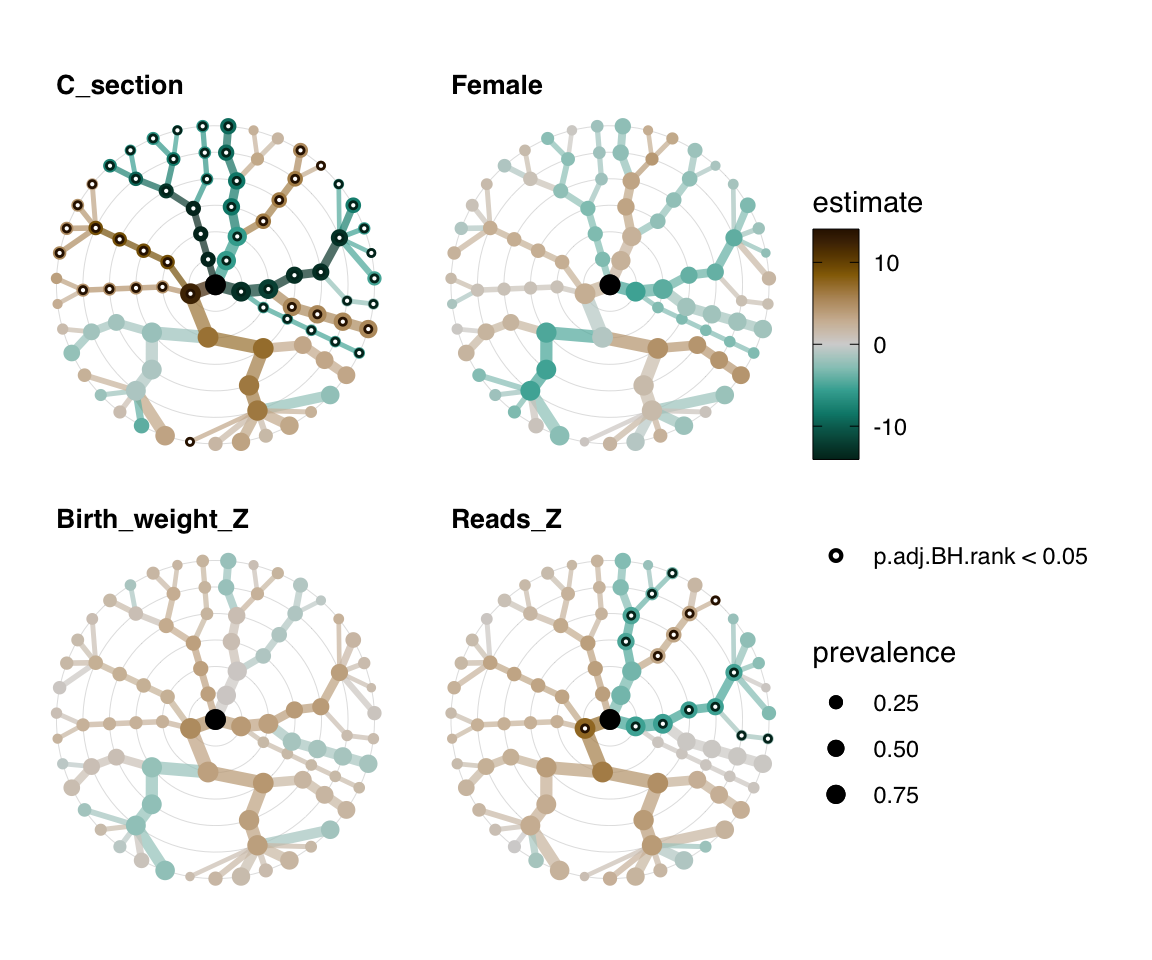
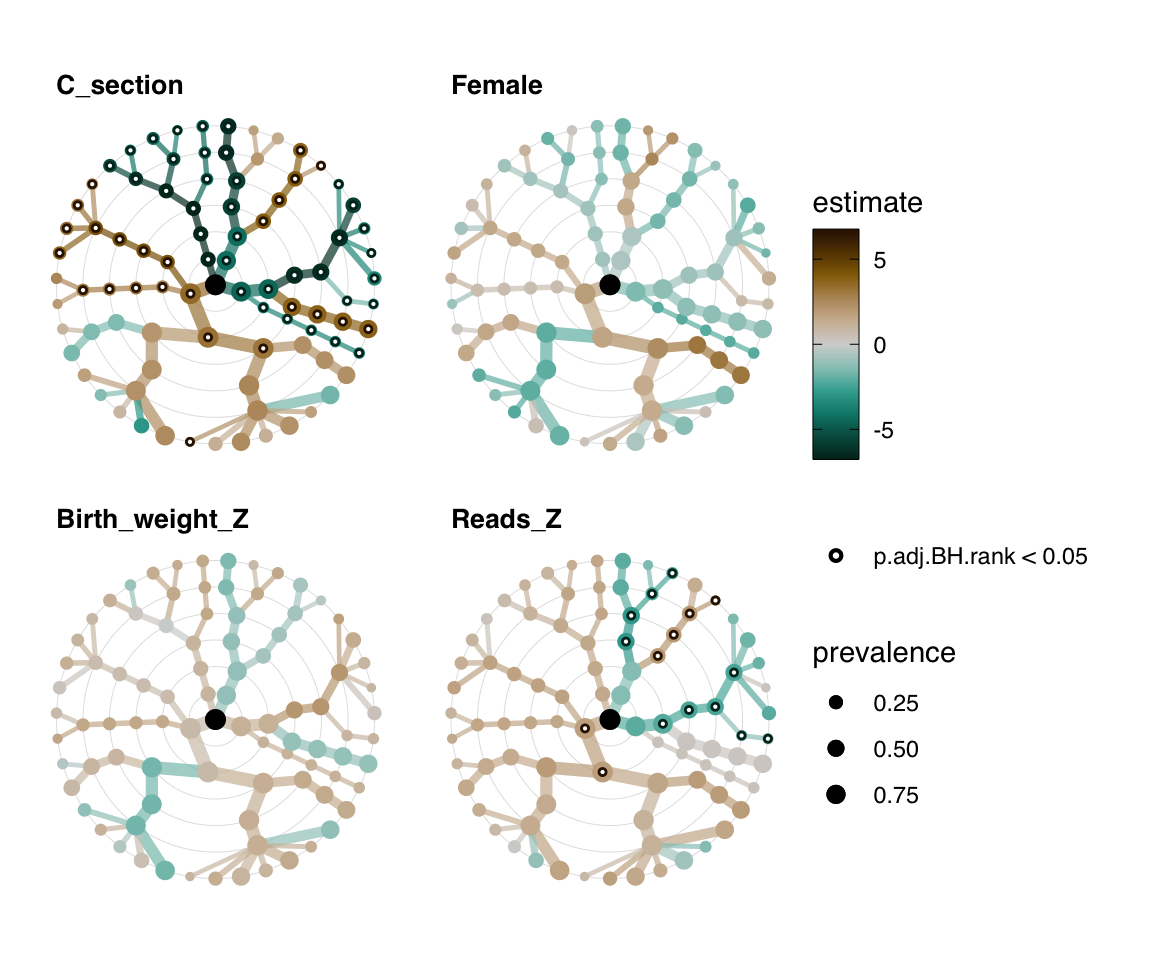
fix tss log2 regression modelling examples

diff --git a/exercises/exercises_2.html b/exercises/exercises_2.html
@@ -655,10 +655,10 @@ For more details on PERMANOVA
 <span id="cb22-5"><a href="#cb22-5" aria-hidden="true" tabindex="-1"></a>  <span class="fu">dist_permanova</span>(<span class="at">variables =</span> <span class="st">"birth_mode"</span>, <span class="at">n_perms =</span> <span class="dv">99</span>, <span class="at">seed =</span> <span class="dv">123</span>) <span class="sc">%&gt;%</span></span>
 <span id="cb22-6"><a href="#cb22-6" aria-hidden="true" tabindex="-1"></a>  <span class="fu">perm_get</span>()</span></code><button title="Copy to Clipboard" class="code-copy-button"><i class="bi"></i></button></pre></div>
 <div class="cell-output cell-output-stderr">
-<pre><code>2023-05-24 11:55:05.299356 - Starting PERMANOVA with 99 perms with 1 processes</code></pre>
+<pre><code>2023-07-30 20:51:25.860412 - Starting PERMANOVA with 99 perms with 1 processes</code></pre>
 </div>
 <div class="cell-output cell-output-stderr">
-<pre><code>2023-05-24 11:55:05.419289 - Finished PERMANOVA</code></pre>
+<pre><code>2023-07-30 20:51:25.952266 - Finished PERMANOVA</code></pre>
 </div>
 <div class="cell-output cell-output-stdout">
 <pre><code>Permutation test for adonis under reduced model
@@ -707,10 +707,10 @@ Signif. codes:  0 '***' 0.001 '**' 0.01 '*' 0.05 '.' 0.1 ' ' 1</code></pre>
 <pre><code>Dropping samples with missings: 15</code></pre>
 </div>
 <div class="cell-output cell-output-stderr">
-<pre><code>2023-05-24 11:55:05.523004 - Starting PERMANOVA with 99 perms with 1 processes</code></pre>
+<pre><code>2023-07-30 20:51:26.021612 - Starting PERMANOVA with 99 perms with 1 processes</code></pre>
 </div>
 <div class="cell-output cell-output-stderr">
-<pre><code>2023-05-24 11:55:06.424083 - Finished PERMANOVA</code></pre>
+<pre><code>2023-07-30 20:51:26.711626 - Finished PERMANOVA</code></pre>
 </div>
 <div class="cell-output cell-output-stdout">
 <pre><code>Permutation test for adonis under reduced model
@@ -1214,9 +1214,9 @@ Caused by warning:
 <div class="cell">
 <div class="sourceCode cell-code" id="cb53"><pre class="sourceCode r code-with-copy"><code class="sourceCode r"><span id="cb53-1"><a href="#cb53-1" aria-hidden="true" tabindex="-1"></a>bacteroidesRegression1 <span class="ot">&lt;-</span> infants <span class="sc">%&gt;%</span></span>
 <span id="cb53-2"><a href="#cb53-2" aria-hidden="true" tabindex="-1"></a>  <span class="fu">tax_transform</span>(<span class="st">"compositional"</span>, <span class="at">rank =</span> <span class="st">"genus"</span>) <span class="sc">%&gt;%</span></span>
-<span id="cb53-3"><a href="#cb53-3" aria-hidden="true" tabindex="-1"></a>  <span class="fu">tax_transform</span>(<span class="st">"log2"</span>, <span class="at">zero_replace =</span> <span class="st">"halfmin"</span>, <span class="at">chain =</span> <span class="cn">TRUE</span>) <span class="sc">%&gt;%</span></span>
-<span id="cb53-4"><a href="#cb53-4" aria-hidden="true" tabindex="-1"></a>  <span class="fu">tax_model</span>(</span>
-<span id="cb53-5"><a href="#cb53-5" aria-hidden="true" tabindex="-1"></a>    <span class="at">type =</span> <span class="st">"lm"</span>, <span class="at">rank =</span> <span class="st">"genus"</span>,</span>
+<span id="cb53-3"><a href="#cb53-3" aria-hidden="true" tabindex="-1"></a>  <span class="fu">tax_model</span>(</span>
+<span id="cb53-4"><a href="#cb53-4" aria-hidden="true" tabindex="-1"></a>    <span class="at">type =</span> <span class="st">"lm"</span>, <span class="at">rank =</span> <span class="st">"genus"</span>,</span>
+<span id="cb53-5"><a href="#cb53-5" aria-hidden="true" tabindex="-1"></a>    <span class="at">trans =</span> <span class="st">"log2"</span>, <span class="at">trans_args =</span> <span class="fu">list</span>(<span class="at">zero_replace =</span> <span class="st">"halfmin"</span>),</span>
 <span id="cb53-6"><a href="#cb53-6" aria-hidden="true" tabindex="-1"></a>    <span class="at">taxa =</span> <span class="st">"Bacteroides"</span>, <span class="at">variables =</span> <span class="st">"birth_mode"</span>,</span>
 <span id="cb53-7"><a href="#cb53-7" aria-hidden="true" tabindex="-1"></a>    <span class="at">return_psx =</span> <span class="cn">FALSE</span></span>
 <span id="cb53-8"><a href="#cb53-8" aria-hidden="true" tabindex="-1"></a>  ) <span class="sc">%&gt;%</span></span>
@@ -1282,9 +1282,9 @@ F-statistic: 109.6 on 1 and 304 DF,  p-value: &lt; 2.2e-16</code></pre>
 <div class="cell">
 <div class="sourceCode cell-code" id="cb60"><pre class="sourceCode r code-with-copy"><code class="sourceCode r"><span id="cb60-1"><a href="#cb60-1" aria-hidden="true" tabindex="-1"></a>bacteroidesRegression2 <span class="ot">&lt;-</span> infants <span class="sc">%&gt;%</span></span>
 <span id="cb60-2"><a href="#cb60-2" aria-hidden="true" tabindex="-1"></a>  <span class="fu">tax_transform</span>(<span class="st">"compositional"</span>, <span class="at">rank =</span> <span class="st">"genus"</span>) <span class="sc">%&gt;%</span></span>
-<span id="cb60-3"><a href="#cb60-3" aria-hidden="true" tabindex="-1"></a>  <span class="fu">tax_transform</span>(<span class="st">"log2"</span>, <span class="at">zero_replace =</span> <span class="st">"halfmin"</span>, <span class="at">chain =</span> <span class="cn">TRUE</span>) <span class="sc">%&gt;%</span></span>
-<span id="cb60-4"><a href="#cb60-4" aria-hidden="true" tabindex="-1"></a>  <span class="fu">tax_model</span>(</span>
-<span id="cb60-5"><a href="#cb60-5" aria-hidden="true" tabindex="-1"></a>    <span class="at">type =</span> <span class="st">"lm"</span>, <span class="at">rank =</span> <span class="st">"genus"</span>, <span class="at">taxa =</span> <span class="st">"Bacteroides"</span>,</span>
+<span id="cb60-3"><a href="#cb60-3" aria-hidden="true" tabindex="-1"></a>  <span class="fu">tax_model</span>(</span>
+<span id="cb60-4"><a href="#cb60-4" aria-hidden="true" tabindex="-1"></a>    <span class="at">type =</span> <span class="st">"lm"</span>, <span class="at">rank =</span> <span class="st">"genus"</span>, <span class="at">taxa =</span> <span class="st">"Bacteroides"</span>,</span>
+<span id="cb60-5"><a href="#cb60-5" aria-hidden="true" tabindex="-1"></a>    <span class="at">trans =</span> <span class="st">"log2"</span>, <span class="at">trans_args =</span> <span class="fu">list</span>(<span class="at">zero_replace =</span> <span class="st">"halfmin"</span>),</span>
 <span id="cb60-6"><a href="#cb60-6" aria-hidden="true" tabindex="-1"></a>    <span class="at">variables =</span> <span class="fu">c</span>(<span class="st">"C_section"</span>, <span class="st">"Female"</span>, <span class="st">"Birth_weight_Z"</span>, <span class="st">"Reads_Z"</span>),</span>
 <span id="cb60-7"><a href="#cb60-7" aria-hidden="true" tabindex="-1"></a>    <span class="at">return_psx =</span> <span class="cn">FALSE</span></span>
 <span id="cb60-8"><a href="#cb60-8" aria-hidden="true" tabindex="-1"></a>  ) <span class="sc">%&gt;%</span></span>
@@ -1386,9 +1386,9 @@ F-statistic: 28.55 on 4 and 286 DF,  p-value: &lt; 2.2e-16</code></pre>
 <span id="cb68-4"><a href="#cb68-4" aria-hidden="true" tabindex="-1"></a>  <span class="fu">tax_prepend_ranks</span>() <span class="sc">%&gt;%</span></span>
 <span id="cb68-5"><a href="#cb68-5" aria-hidden="true" tabindex="-1"></a>  <span class="fu">tax_transform</span>(<span class="st">"compositional"</span>, <span class="at">rank =</span> <span class="st">"species"</span>, <span class="at">keep_counts =</span> <span class="cn">TRUE</span>) <span class="sc">%&gt;%</span></span>
 <span id="cb68-6"><a href="#cb68-6" aria-hidden="true" tabindex="-1"></a>  <span class="fu">tax_filter</span>(<span class="at">min_prevalence =</span> <span class="fl">0.1</span>, <span class="at">undetected =</span> <span class="dv">0</span>, <span class="at">use_counts =</span> <span class="cn">TRUE</span>) <span class="sc">%&gt;%</span></span>
-<span id="cb68-7"><a href="#cb68-7" aria-hidden="true" tabindex="-1"></a>  <span class="fu">tax_transform</span>(<span class="at">trans =</span> <span class="st">"log2"</span>, <span class="at">chain =</span> <span class="cn">TRUE</span>, <span class="at">zero_replace =</span> <span class="st">"halfmin"</span>) <span class="sc">%&gt;%</span></span>
-<span id="cb68-8"><a href="#cb68-8" aria-hidden="true" tabindex="-1"></a>  <span class="fu">taxatree_models</span>(</span>
-<span id="cb68-9"><a href="#cb68-9" aria-hidden="true" tabindex="-1"></a>    <span class="at">type =</span> lm,</span>
+<span id="cb68-7"><a href="#cb68-7" aria-hidden="true" tabindex="-1"></a>  <span class="fu">taxatree_models</span>(</span>
+<span id="cb68-8"><a href="#cb68-8" aria-hidden="true" tabindex="-1"></a>    <span class="at">type =</span> lm,</span>
+<span id="cb68-9"><a href="#cb68-9" aria-hidden="true" tabindex="-1"></a>    <span class="at">trans =</span> <span class="st">"log2"</span>, <span class="at">trans_args =</span> <span class="fu">list</span>(<span class="at">zero_replace =</span> <span class="st">"halfmin"</span>),</span>
 <span id="cb68-10"><a href="#cb68-10" aria-hidden="true" tabindex="-1"></a>    <span class="at">ranks =</span> <span class="fu">c</span>(<span class="st">"phylum"</span>, <span class="st">"class"</span>, <span class="st">"order"</span>, <span class="st">"family"</span>, <span class="st">"genus"</span>, <span class="st">"species"</span>),</span>
 <span id="cb68-11"><a href="#cb68-11" aria-hidden="true" tabindex="-1"></a>    <span class="at">variables =</span> <span class="fu">c</span>(<span class="st">"C_section"</span>, <span class="st">"Female"</span>, <span class="st">"Birth_weight_Z"</span>, <span class="st">"Reads_Z"</span>)</span>
 <span id="cb68-12"><a href="#cb68-12" aria-hidden="true" tabindex="-1"></a>  )</span></code><button title="Copy to Clipboard" class="code-copy-button"><i class="bi"></i></button></pre></div>
@@ -1406,7 +1406,7 @@ tax_table()   Taxonomy Table:    [ 39 taxa by 6 taxonomic ranks ]
 otu_get(counts = TRUE)       [ 39 taxa and 306 samples ]
 
 psExtra info:
-tax_agg = "species" tax_trans = "compositional&amp;log2" 
+tax_agg = "species" tax_trans = "compositional" 
 
 taxatree_models list:
 Ranks: phylum/class/order/family/genus/species</code></pre>
@@ -1430,7 +1430,7 @@ tax_table()   Taxonomy Table:    [ 39 taxa by 6 taxonomic ranks ]
 otu_get(counts = TRUE)       [ 39 taxa and 306 samples ]
 
 psExtra info:
-tax_agg = "species" tax_trans = "compositional&amp;log2" 
+tax_agg = "species" tax_trans = "compositional" 
 
 taxatree_stats dataframe:
 89 taxa at 6 ranks: phylum, class, order, family, genus, species 
@@ -1443,16 +1443,16 @@ taxatree_stats dataframe:
 <pre><code># A tibble: 356 × 8
    term           taxon      rank  formula estimate std.error statistic  p.value
    &lt;fct&gt;          &lt;chr&gt;      &lt;fct&gt; &lt;chr&gt;      &lt;dbl&gt;     &lt;dbl&gt;     &lt;dbl&gt;    &lt;dbl&gt;
- 1 C_section      p: Proteo… phyl… `p: Pr…  -3.44       1.31    -2.62   9.23e- 3
- 2 Female         p: Proteo… phyl… `p: Pr…   0.595      1.29     0.460  6.46e- 1
- 3 Birth_weight_Z p: Proteo… phyl… `p: Pr…   0.0179     0.640    0.0279 9.78e- 1
- 4 Reads_Z        p: Proteo… phyl… `p: Pr…  -1.22       0.659   -1.86   6.44e- 2
- 5 C_section      p: Actino… phyl… `p: Ac… -16.9        2.37    -7.12   8.98e-12
- 6 Female         p: Actino… phyl… `p: Ac…  -2.80       2.33    -1.20   2.30e- 1
- 7 Birth_weight_Z p: Actino… phyl… `p: Ac…   1.65       1.15     1.43   1.55e- 1
- 8 Reads_Z        p: Actino… phyl… `p: Ac…  -2.86       1.19    -2.41   1.67e- 2
- 9 C_section      p: Firmic… phyl… `p: Fi…  15.3        4.21     3.62   3.43e- 4
-10 Female         p: Firmic… phyl… `p: Fi…   0.741      4.15     0.179  8.58e- 1
+ 1 C_section      p: Proteo… phyl… `p: Pr…  -3.72       0.812   -4.58   7.01e- 6
+ 2 Female         p: Proteo… phyl… `p: Pr…  -0.0684     0.800   -0.0855 9.32e- 1
+ 3 Birth_weight_Z p: Proteo… phyl… `p: Pr…  -0.253      0.396   -0.638  5.24e- 1
+ 4 Reads_Z        p: Proteo… phyl… `p: Pr…  -0.369      0.408   -0.905  3.66e- 1
+ 5 C_section      p: Actino… phyl… `p: Ac…  -4.25       0.739   -5.75   2.25e- 8
+ 6 Female         p: Actino… phyl… `p: Ac…  -0.439      0.728   -0.603  5.47e- 1
+ 7 Birth_weight_Z p: Actino… phyl… `p: Ac…   0.293      0.361    0.813  4.17e- 1
+ 8 Reads_Z        p: Actino… phyl… `p: Ac…  -0.876      0.371   -2.36   1.90e- 2
+ 9 C_section      p: Firmic… phyl… `p: Fi…   2.43       0.342    7.12   8.74e-12
+10 Female         p: Firmic… phyl… `p: Fi…   0.697      0.337    2.07   3.95e- 2
 # ℹ 346 more rows</code></pre>
 </div>
 </div>
@@ -1474,16 +1474,16 @@ taxatree_stats dataframe:
 # Groups:   rank [6]
    term  taxon rank  formula estimate std.error statistic  p.value p.adj.BH.rank
    &lt;fct&gt; &lt;chr&gt; &lt;fct&gt; &lt;chr&gt;      &lt;dbl&gt;     &lt;dbl&gt;     &lt;dbl&gt;    &lt;dbl&gt;         &lt;dbl&gt;
- 1 C_se… p: P… phyl… `p: Pr…  -3.44       1.31    -2.62   9.23e- 3      2.95e- 2
- 2 Fema… p: P… phyl… `p: Pr…   0.595      1.29     0.460  6.46e- 1      7.38e- 1
- 3 Birt… p: P… phyl… `p: Pr…   0.0179     0.640    0.0279 9.78e- 1      9.78e- 1
- 4 Read… p: P… phyl… `p: Pr…  -1.22       0.659   -1.86   6.44e- 2      1.47e- 1
- 5 C_se… p: A… phyl… `p: Ac… -16.9        2.37    -7.12   8.98e-12      7.19e-11
- 6 Fema… p: A… phyl… `p: Ac…  -2.80       2.33    -1.20   2.30e- 1      3.07e- 1
- 7 Birt… p: A… phyl… `p: Ac…   1.65       1.15     1.43   1.55e- 1      2.48e- 1
- 8 Read… p: A… phyl… `p: Ac…  -2.86       1.19    -2.41   1.67e- 2      4.46e- 2
- 9 C_se… p: F… phyl… `p: Fi…  15.3        4.21     3.62   3.43e- 4      1.83e- 3
-10 Fema… p: F… phyl… `p: Fi…   0.741      4.15     0.179  8.58e- 1      9.16e- 1
+ 1 C_se… p: P… phyl… `p: Pr…  -3.72       0.812   -4.58   7.01e- 6      2.81e- 5
+ 2 Fema… p: P… phyl… `p: Pr…  -0.0684     0.800   -0.0855 9.32e- 1      9.32e- 1
+ 3 Birt… p: P… phyl… `p: Pr…  -0.253      0.396   -0.638  5.24e- 1      6.45e- 1
+ 4 Read… p: P… phyl… `p: Pr…  -0.369      0.408   -0.905  3.66e- 1      6.39e- 1
+ 5 C_se… p: A… phyl… `p: Ac…  -4.25       0.739   -5.75   2.25e- 8      1.20e- 7
+ 6 Fema… p: A… phyl… `p: Ac…  -0.439      0.728   -0.603  5.47e- 1      6.45e- 1
+ 7 Birt… p: A… phyl… `p: Ac…   0.293      0.361    0.813  4.17e- 1      6.39e- 1
+ 8 Read… p: A… phyl… `p: Ac…  -0.876      0.371   -2.36   1.90e- 2      5.07e- 2
+ 9 C_se… p: F… phyl… `p: Fi…   2.43       0.342    7.12   8.74e-12      6.99e-11
+10 Fema… p: F… phyl… `p: Fi…   0.697      0.337    2.07   3.95e- 2      9.03e- 2
 # ℹ 346 more rows</code></pre>
 </div>
 </div>
@@ -1551,15 +1551,15 @@ Long session_info output
 <pre><code>─ Session info ───────────────────────────────────────────────────────────────
  setting  value
  version  R version 4.3.0 (2023-04-21)
- os       macOS Ventura 13.3.1
+ os       macOS Ventura 13.5
  system   aarch64, darwin20
  ui       X11
  language (EN)
  collate  en_US.UTF-8
  ctype    en_US.UTF-8
- tz       Europe/Prague
- date     2023-05-24
- pandoc   3.0.1 @ /opt/homebrew/bin/ (via rmarkdown)
+ tz       Europe/Amsterdam
+ date     2023-07-30
+ pandoc   3.1.1 @ /Applications/RStudio.app/Contents/Resources/app/quarto/bin/tools/ (via rmarkdown)
 
 ─ Packages ───────────────────────────────────────────────────────────────────
  package          * version   date (UTC) lib source
@@ -1571,7 +1571,7 @@ Long session_info output
  biomformat         1.28.0    2023-04-25 [1] RSPM (R 4.3.0)
  Biostrings         2.68.0    2023-04-25 [1] RSPM (R 4.3.0)
  bitops             1.0-7     2021-04-24 [1] CRAN (R 4.3.0)
- broom              1.0.4     2023-03-11 [1] CRAN (R 4.3.0)
+ broom              1.0.5     2023-06-09 [1] CRAN (R 4.3.0)
  ca                 0.71.1    2020-01-24 [1] CRAN (R 4.3.0)
  cachem             1.0.8     2023-05-01 [1] CRAN (R 4.3.0)
  Cairo              1.6-0     2022-07-05 [1] CRAN (R 4.3.0)
@@ -1587,7 +1587,7 @@ Long session_info output
  crayon             1.5.2     2022-09-29 [1] CRAN (R 4.3.0)
  data.table         1.14.8    2023-02-17 [1] CRAN (R 4.3.0)
  devtools           2.4.5     2022-10-11 [1] CRAN (R 4.3.0)
- digest             0.6.31    2022-12-11 [1] CRAN (R 4.3.0)
+ digest             0.6.33    2023-07-07 [1] CRAN (R 4.3.0)
  doParallel         1.0.17    2022-02-07 [1] CRAN (R 4.3.0)
  dplyr            * 1.1.2     2023-04-20 [1] CRAN (R 4.3.0)
  ellipsis           0.3.2     2021-04-29 [1] CRAN (R 4.3.0)
@@ -1614,12 +1614,12 @@ Long session_info output
  hms                1.1.3     2023-03-21 [1] CRAN (R 4.3.0)
  htmltools          0.5.5     2023-03-23 [1] CRAN (R 4.3.0)
  htmlwidgets        1.6.2     2023-03-17 [1] CRAN (R 4.3.0)
- httpuv             1.6.9     2023-02-14 [1] CRAN (R 4.3.0)
- igraph             1.4.2     2023-04-07 [1] CRAN (R 4.3.0)
+ httpuv             1.6.11    2023-05-11 [1] CRAN (R 4.3.0)
+ igraph             1.5.0     2023-06-16 [1] CRAN (R 4.3.0)
  IRanges            2.34.0    2023-04-25 [1] RSPM (R 4.3.0)
  iterators          1.0.14    2022-02-05 [1] CRAN (R 4.3.0)
- jsonlite           1.8.4     2022-12-06 [1] CRAN (R 4.3.0)
- knitr              1.42      2023-01-25 [1] CRAN (R 4.3.0)
+ jsonlite           1.8.7     2023-06-29 [1] CRAN (R 4.3.0)
+ knitr              1.43      2023-05-25 [1] CRAN (R 4.3.0)
  labeling           0.4.2     2020-10-20 [1] CRAN (R 4.3.0)
  later              1.3.1     2023-05-02 [1] CRAN (R 4.3.0)
  lattice            0.21-8    2023-04-05 [1] CRAN (R 4.3.0)
@@ -1627,12 +1627,12 @@ Long session_info output
  lubridate        * 1.9.2     2023-02-10 [1] CRAN (R 4.3.0)
  magrittr           2.0.3     2022-03-30 [1] CRAN (R 4.3.0)
  MASS               7.3-60    2023-05-04 [1] CRAN (R 4.3.0)
- Matrix             1.5-4     2023-04-04 [1] CRAN (R 4.3.0)
- matrixStats        0.63.0    2022-11-18 [1] CRAN (R 4.3.0)
+ Matrix             1.6-0     2023-07-08 [1] CRAN (R 4.3.0)
+ matrixStats        1.0.0     2023-06-02 [1] CRAN (R 4.3.0)
  memoise            2.0.1     2021-11-26 [1] CRAN (R 4.3.0)
- mgcv               1.8-42    2023-03-02 [1] CRAN (R 4.3.0)
+ mgcv               1.9-0     2023-07-11 [1] CRAN (R 4.3.0)
  microbiome         1.22.0    2023-04-25 [1] RSPM (R 4.3.0)
- microViz         * 0.10.10   2023-05-19 [1] Github (david-barnett/microViz@2a021f2)
+ microViz         * 0.11.0    2023-07-28 [1] local
  mime               0.12      2021-09-28 [1] CRAN (R 4.3.0)
  miniUI             0.1.1.1   2018-05-18 [1] CRAN (R 4.3.0)
  multtest           2.56.0    2023-04-25 [1] RSPM (R 4.3.0)
@@ -1642,40 +1642,40 @@ Long session_info output
  permute            0.9-7     2022-01-27 [1] CRAN (R 4.3.0)
  phyloseq         * 1.44.0    2023-04-25 [1] RSPM (R 4.3.0)
  pillar             1.9.0     2023-03-22 [1] CRAN (R 4.3.0)
- pkgbuild           1.4.0     2022-11-27 [1] CRAN (R 4.3.0)
+ pkgbuild           1.4.2     2023-06-26 [1] CRAN (R 4.3.0)
  pkgconfig          2.0.3     2019-09-22 [1] CRAN (R 4.3.0)
- pkgload            1.3.2     2022-11-16 [1] CRAN (R 4.3.0)
+ pkgload            1.3.2.1   2023-07-08 [1] CRAN (R 4.3.0)
  plyr               1.8.8     2022-11-11 [1] CRAN (R 4.3.0)
  png                0.1-8     2022-11-29 [1] CRAN (R 4.3.0)
  polyclip           1.10-4    2022-10-20 [1] CRAN (R 4.3.0)
  prettyunits        1.1.1     2020-01-24 [1] CRAN (R 4.3.0)
- processx           3.8.1     2023-04-18 [1] CRAN (R 4.3.0)
+ processx           3.8.2     2023-06-30 [1] CRAN (R 4.3.0)
  profvis            0.3.8     2023-05-02 [1] CRAN (R 4.3.0)
  promises           1.2.0.1   2021-02-11 [1] CRAN (R 4.3.0)
  ps                 1.7.5     2023-04-18 [1] CRAN (R 4.3.0)
  purrr            * 1.0.1     2023-01-10 [1] CRAN (R 4.3.0)
  R6                 2.5.1     2021-08-19 [1] CRAN (R 4.3.0)
  RColorBrewer       1.1-3     2022-04-03 [1] CRAN (R 4.3.0)
- Rcpp               1.0.10    2023-01-22 [1] CRAN (R 4.3.0)
+ Rcpp               1.0.11    2023-07-06 [1] CRAN (R 4.3.0)
  RCurl              1.98-1.12 2023-03-27 [1] CRAN (R 4.3.0)
  readr            * 2.1.4     2023-02-10 [1] CRAN (R 4.3.0)
  registry           0.5-1     2019-03-05 [1] CRAN (R 4.3.0)
- remotes            2.4.2     2021-11-30 [1] CRAN (R 4.3.0)
+ remotes            2.4.2.1   2023-07-18 [1] CRAN (R 4.3.0)
  reshape2           1.4.4     2020-04-09 [1] CRAN (R 4.3.0)
  rhdf5              2.44.0    2023-04-25 [1] RSPM (R 4.3.0)
  rhdf5filters       1.12.1    2023-04-30 [1] RSPM (R 4.3.0)
  Rhdf5lib           1.22.0    2023-04-25 [1] RSPM (R 4.3.0)
  rjson              0.2.21    2022-01-09 [1] CRAN (R 4.3.0)
  rlang              1.1.1     2023-04-28 [1] CRAN (R 4.3.0)
- rmarkdown          2.21      2023-03-26 [1] CRAN (R 4.3.0)
- rstudioapi         0.14      2022-08-22 [1] CRAN (R 4.3.0)
+ rmarkdown          2.23      2023-07-01 [1] CRAN (R 4.3.0)
+ rstudioapi         0.15.0    2023-07-07 [1] CRAN (R 4.3.0)
  Rtsne              0.16      2022-04-17 [1] CRAN (R 4.3.0)
  S4Vectors          0.38.1    2023-05-02 [1] RSPM (R 4.3.0)
  scales             1.2.1     2022-08-20 [1] CRAN (R 4.3.0)
  seriation        * 1.4.2     2023-03-08 [1] CRAN (R 4.3.0)
  sessioninfo        1.2.2     2021-12-06 [1] CRAN (R 4.3.0)
  shape              1.4.6     2021-05-19 [1] CRAN (R 4.3.0)
- shiny            * 1.7.4     2022-12-15 [1] CRAN (R 4.3.0)
+ shiny            * 1.7.4.1   2023-07-06 [1] CRAN (R 4.3.0)
  stringi            1.7.12    2023-01-11 [1] CRAN (R 4.3.0)
  stringr          * 1.5.0     2022-12-02 [1] CRAN (R 4.3.0)
  survival           3.5-5     2023-03-12 [1] CRAN (R 4.3.0)
@@ -1687,11 +1687,11 @@ Long session_info output
  timechange         0.2.0     2023-01-11 [1] CRAN (R 4.3.0)
  TSP                1.2-4     2023-04-04 [1] CRAN (R 4.3.0)
  tweenr             2.0.2     2022-09-06 [1] CRAN (R 4.3.0)
- tzdb               0.3.0     2022-03-28 [1] CRAN (R 4.3.0)
+ tzdb               0.4.0     2023-05-12 [1] CRAN (R 4.3.0)
  urlchecker         1.0.1     2021-11-30 [1] CRAN (R 4.3.0)
- usethis            2.1.6     2022-05-25 [1] CRAN (R 4.3.0)
+ usethis            2.2.2     2023-07-06 [1] CRAN (R 4.3.0)
  utf8               1.2.3     2023-01-31 [1] CRAN (R 4.3.0)
- vctrs              0.6.2     2023-04-19 [1] CRAN (R 4.3.0)
+ vctrs              0.6.3     2023-06-14 [1] CRAN (R 4.3.0)
  vegan              2.6-4     2022-10-11 [1] CRAN (R 4.3.0)
  viridis            0.6.3     2023-05-03 [1] CRAN (R 4.3.0)
  viridisLite        0.4.2     2023-05-02 [1] CRAN (R 4.3.0)
